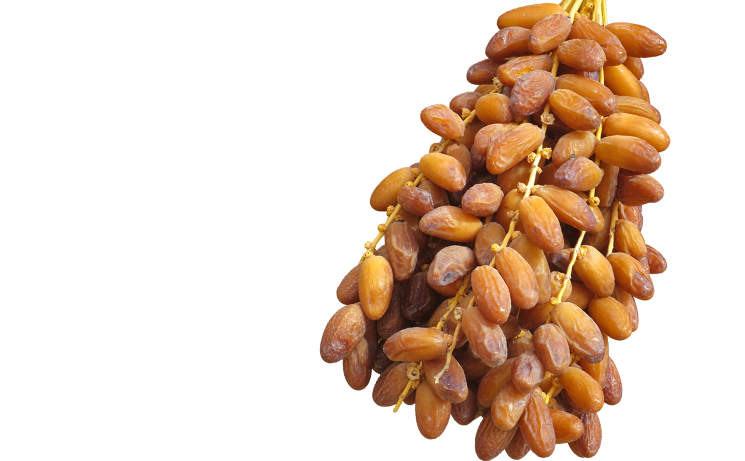
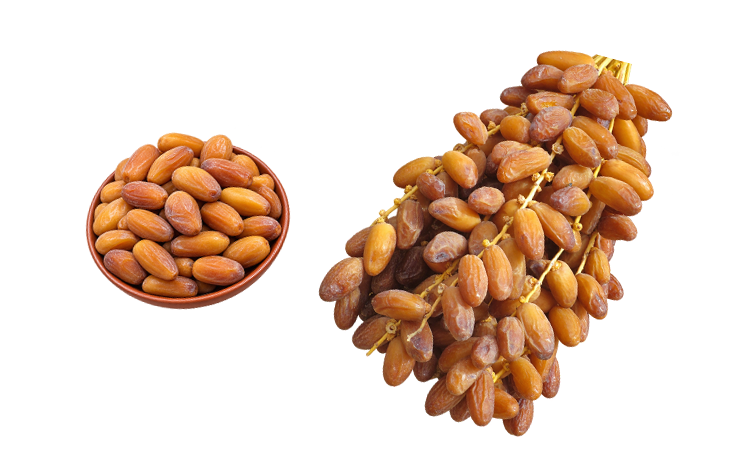
Add hero slider arrows, fix header legibility, add 4th product card, translate About Us copy
- Add prev/next arrow controls to the homepage hero slider
- Make nav bar solid (light bg/dark text) at all scroll positions for readability
- Show full slider image (no crop) on mobile
- Add missing EN translation for footer address
- Add "Dattes Conditionnées" product card on homepage (now 4 cards)
- Replace About page intro with full bilingual company text
- Remove dark overlay from About page hero image
- Minor image/content touch-ups

diff --git a/index.html b/index.html
@@ -38,12 +38,17 @@
   <!-- HERO -->
   <section class="ufuk-connect">
     <div class="ufuk-connect-slider">
-      <div class="ufuk-connect-slide is-active"><img src="assets/images/oasis.jpg" alt="Oasis de Kébili, Tunisie"></div>
-      <div class="ufuk-connect-slide"><img src="assets/images/oasis2.png" alt="Palmeraie de Kébili"></div>
-      <div class="ufuk-connect-slide"><img src="assets/images/oasis3.jpg" alt="Régime de dattes sur le palmier, oasis de Kébili"></div>
-      <div class="ufuk-connect-slide"><img src="assets/images/oasis4.png" alt="Palmeraie de l'oasis de Kébili"></div>
-      <div class="ufuk-connect-slide"><img src="assets/images/oasis5.png" alt="Oasis et palmiers de Kébili"></div>
+      <div class="ufuk-connect-slide is-active"><img src="assets/images/oasis.png" alt="Oasis de Kébili, Tunisie"></div>
+      <div class="ufuk-connect-slide"><img src="assets/images/oasis5.png" alt="Palmeraie de Kébili"></div>
+      <div class="ufuk-connect-slide"><img src="assets/images/oasis3.png" alt="Régime de dattes sur le palmier, oasis de Kébili"></div>
+      <div class="ufuk-connect-slide"><img src="assets/images/oasis2.png" alt="Palmeraie de l'oasis de Kébili"></div>
     </div>
+    <button type="button" class="ufuk-connect-arrow ufuk-connect-arrow-prev" aria-label="Image précédente">
+      <svg viewBox="0 0 24 24" fill="none" stroke="currentColor" stroke-width="2" stroke-linecap="round" stroke-linejoin="round"><polyline points="15 18 9 12 15 6"/></svg>
+    </button>
+    <button type="button" class="ufuk-connect-arrow ufuk-connect-arrow-next" aria-label="Image suivante">
+      <svg viewBox="0 0 24 24" fill="none" stroke="currentColor" stroke-width="2" stroke-linecap="round" stroke-linejoin="round"><polyline points="9 18 15 12 9 6"/></svg>
+    </button>
     <div class="container">
       <div class="ufuk-connect-inner">
         <div class="eyebrow"><span data-fr-only>Sté Ben Laribi &amp; Co — Kébili, Tunisie</span><span data-en-only>Sté Ben Laribi &amp; Co — Kébili, Tunisia</span></div>
@@ -101,13 +106,13 @@
         <div class="split-text">
           <div class="eyebrow"><span data-fr-only>Qui sommes-nous</span><span data-en-only>Who we are</span></div>
           <h2 data-fr-only>Une entreprise ancrée dans l'oasis de Kébili</h2>
-          <h2 data-en-only>A family business rooted in the Kébili oasis</h2>
-          <p data-fr-only>Nous sommes la Sté Ben Laribi &amp; Co (Ben Laribi Dattes), spécialisée dans la production, le conditionnement et l'exportation de dattes, fruits &amp; légumes — plus particulièrement la datte Deglet Nour de Tunisie : naturelle en branches, naturelle standard, conditionnée et pour usage industriel.</p>
+          <h2 data-en-only>A business rooted in the Kébili oasis</h2>
+          <p data-fr-only>Nous sommes la Sté Ben Laribi &amp; Co (Ben Laribi Dattes), spécialisée dans la production, le conditionnement et l'exportation de dattes, fruits &amp; légumes — plus particulièrement les dattes Deglet Nour de Tunisie : naturelles en branches, naturelle standard (vrac), conditionnée et pour usage industriel.</p>
           <p data-en-only>We are Sté Ben Laribi &amp; Co (Ben Laribi Dattes), specialised in the production, processing and export of dates, fruit &amp; vegetables — in particular Tunisian Deglet Nour dates: natural on the branch, natural loose, processed and for industrial use.</p>
           <ul class="check-list">
             <li><svg viewBox="0 0 24 24" fill="none" stroke="currentColor" stroke-width="2"><polyline points="20 6 9 17 4 12"/></svg><span data-fr-only>Production, conditionnement &amp; exportation</span><span data-en-only>Production, processing &amp; export</span></li>
             <li><svg viewBox="0 0 24 24" fill="none" stroke="currentColor" stroke-width="2"><polyline points="20 6 9 17 4 12"/></svg><span data-fr-only>Usine &amp; bureaux au cœur de l'oasis de Kébili</span><span data-en-only>Factory &amp; offices in the heart of the Kébili oasis</span></li>
-            <li><svg viewBox="0 0 24 24" fill="none" stroke="currentColor" stroke-width="2"><polyline points="20 6 9 17 4 12"/></svg><span data-fr-only>Clients fidélisés en Europe, Asie &amp; Afrique</span><span data-en-only>Loyal customers across Europe, Asia &amp; Africa</span></li>
+            <li><svg viewBox="0 0 24 24" fill="none" stroke="currentColor" stroke-width="2"><polyline points="20 6 9 17 4 12"/></svg><span data-fr-only>Clients fidélisés en Europe, Asie &amp; Afrique...</span><span data-en-only>Loyal customers across Europe, Asia &amp; Africa</span></li>
             <li><svg viewBox="0 0 24 24" fill="none" stroke="currentColor" stroke-width="2"><polyline points="20 6 9 17 4 12"/></svg><span data-fr-only>Amélioration continue de la qualité</span><span data-en-only>Continuous quality improvement</span></li>
           </ul>
           <a href="entreprise.html" class="btn btn-dark"><span data-fr-only>En savoir plus</span><span data-en-only>Learn more</span></a>
@@ -121,8 +126,8 @@
     <div class="container">
       <div class="section-head reveal">
         <div class="eyebrow"><span data-fr-only>Nos Produits</span><span data-en-only>Our Products</span></div>
-        <h2 data-fr-only>Trois façons de savourer les dattes Deglet Nour</h2>
-        <h2 data-en-only>Three ways to enjoy Deglet Nour</h2>
+        <h2 data-fr-only>Quatre façons de savourer les dattes Deglet Nour</h2>
+        <h2 data-en-only>Four ways to enjoy Deglet Nour</h2>
         <p data-fr-only>Sélectionnées à la main dans l'oasis de Kébili, nos dattes sont proposées en vrac, conditionnées ou en branches, selon vos marchés et usages.</p>
         <p data-en-only>Hand-selected in the Kébili oasis, our dates are offered loose, processed or on the branch, tailored to your markets and uses.</p>
       </div>
@@ -134,9 +139,9 @@
           </div>
           <div class="product-card-body">
             <h3 data-fr-only>Dattes Naturelle en Branches</h3><h3 data-en-only>Natural Loose</h3>
-            <p data-fr-only>Dattes naturelles triées et calibrées, conditionnées en ravier ou en cup pour la distribution et l'usage industriel.</p>
+            <p data-fr-only>Dattes naturelles sélectionnées, branchées, présentées en barquette, bouquet, boîte et carton.</p>
             <p data-en-only>Sorted, calibrated natural dates, packed in trays or cups for retail and industrial use.</p>
-            <div class="tag-row"><span class="tag">200 / 400 g</span><span class="tag">Cup 284–850 g</span></div>
+            <div class="tag-row"><span class="tag">Barquette et bouquet 250 / 500g </span><span class="tag">Boite 500g et 1kg </span> <span class="tag">Carton 2kg et 5kg </span></div>
             <a href="produits.html#vrac" class="btn btn-outline btn-sm" style="border-color:rgba(42,36,25,.25);color:var(--green-deep)"><span data-fr-only>Voir les formats</span><span data-en-only>See packaging</span></a>
           </div>
         </article>
@@ -146,10 +151,10 @@
             <div class="ph"><svg viewBox="0 0 24 24" fill="none" stroke="currentColor" stroke-width="1.5"><path d="M23 19a2 2 0 0 1-2 2H3a2 2 0 0 1-2-2V8a2 2 0 0 1 2-2h4l2-3h6l2 3h4a2 2 0 0 1 2 2z"/><circle cx="12" cy="13" r="4"/></svg><small data-fr-only>Photo à venir</small><small data-en-only>Photo coming soon</small></div>
           </div>
           <div class="product-card-body">
-            <h3 data-fr-only>Dattes Naturelle en Vrac</h3><h3 data-en-only>Processed</h3>
-            <p data-fr-only>Dattes présentées en ravier, boîte papier ou carton — prêtes pour la distribution export.</p>
+            <h3 data-fr-only>Dattes Naturelle standard (vrac)</h3><h3 data-en-only>Processed</h3>
+            <p data-fr-only>Dattes traitées présentées, boîte papier ou carton — prêtes pour la distribution export.</p>
             <p data-en-only>Dates presented in trays, paper box or carton — ready for export distribution.</p>
-            <div class="tag-row"><span class="tag">Ravier 200–500 g</span><span class="tag">Box 1 kg</span><span class="tag">Carton 5 kg</span></div>
+            <div class="tag-row"><span class="tag">Box 1 kg</span><span class="tag">carton 2 kg</span><span class="tag">Carton 5 kg</span></div>
             <a href="produits.html#conditionnees" class="btn btn-outline btn-sm" style="border-color:rgba(42,36,25,.25);color:var(--green-deep)"><span data-fr-only>Voir les formats</span><span data-en-only>See packaging</span></a>
           </div>
         </article>
@@ -159,11 +164,25 @@
             <div class="ph"><svg viewBox="0 0 24 24" fill="none" stroke="currentColor" stroke-width="1.5"><path d="M23 19a2 2 0 0 1-2 2H3a2 2 0 0 1-2-2V8a2 2 0 0 1 2-2h4l2-3h6l2 3h4a2 2 0 0 1 2 2z"/><circle cx="12" cy="13" r="4"/></svg><small data-fr-only>Photo à venir</small><small data-en-only>Photo coming soon</small></div>
           </div>
           <div class="product-card-body">
-            <h3 data-fr-only>Dattes Naturelle de </h3><h3 data-en-only>Natural on the Branch</h3>
-            <p data-fr-only>Dattes présentées sur la branche, en bouquet ou en coffret, pour une offre premium et festive.</p>
+            <h3 data-fr-only>Dattes Naturelle Dénoyautées</h3><h3 data-en-only>Natural on the Branch</h3>
+            <p data-fr-only>Dattes naturelles de grades B & C présentées en cup et carton. </p>
             <p data-en-only>Dates presented on the branch, as a bouquet or gift box, for a premium, festive offering.</p>
-            <div class="tag-row"><span class="tag">Bouquet 500 g</span><span class="tag">Coffret 1–5 kg</span></div>
+            <div class="tag-row"><span class="tag">Cup 280gr, 680gr, 750 & 795gr </span><span class="tag">Carton 5 & 9kg </span></div>
             <a href="produits.html#branchees" class="btn btn-outline btn-sm" style="border-color:rgba(42,36,25,.25);color:var(--green-deep)"><span data-fr-only>Voir les formats</span><span data-en-only>See packaging</span></a>
+          </div>
+        </article>
+        <article class="product-card reveal">
+          <div class="media">
+            <img src="assets/images/Dattes-Conditionnees.png" alt="Datte Deglet Nour conditionnée">
+            <div class="ph"><svg viewBox="0 0 24 24" fill="none" stroke="currentColor" stroke-width="1.5"><path d="M23 19a2 2 0 0 1-2 2H3a2 2 0 0 1-2-2V8a2 2 0 0 1 2-2h4l2-3h6l2 3h4a2 2 0 0 1 2 2z"/><circle cx="12" cy="13" r="4"/></svg><small data-fr-only>Photo à venir</small><small data-en-only>Photo coming soon</small></div>
+          </div>
+          <div class="product-card-body">
+            <h3 data-fr-only>Dattes Conditionnées et Dattes communes
+            </h3><h3 data-en-only>Processed Dates</h3>
+            <p data-fr-only>Dattes présentées en ravier, boîte papier ou carton.</p>
+            <p data-en-only>Dates carefully presented in trays, paper box or carton, ready for export distribution.</p>
+            <div class="tag-row"><span class="tag">Ravier 200gr, 250gr, 300gr, 400gr & 500gr </span><span class="tag">Boîte papier 1kg </span><span class="tag">Carton 5kg </span></div>
+            <a href="produits.html#conditionnees" class="btn btn-outline btn-sm" style="border-color:rgba(42,36,25,.25);color:var(--green-deep)"><span data-fr-only>Voir les formats</span><span data-en-only>See packaging</span></a>
           </div>
         </article>
       </div>
@@ -195,7 +214,7 @@
         <div class="value-card reveal">
           <svg viewBox="0 0 24 24" fill="none" stroke="currentColor" stroke-width="1.6"><path d="M12 22s8-4 8-10V5l-8-3-8 3v7c0 6 8 10 8 10z"/></svg>
           <h4 data-fr-only>Sélection Rigoureuse</h4><h4 data-en-only>Careful Selection</h4>
-          <p data-fr-only>Dattes triées et calibrées à la main dans notre oasis.</p>
+          <p data-fr-only>Dattes sélectionnées et triées dans notre usine.</p>
           <p data-en-only>Hand-sorted and calibrated dates from our oasis.</p>
         </div>
         <div class="value-card reveal">
@@ -213,7 +232,7 @@
         <div class="value-card reveal">
           <svg viewBox="0 0 24 24" fill="none" stroke="currentColor" stroke-width="1.6"><circle cx="12" cy="12" r="10"/><line x1="2" y1="12" x2="22" y2="12"/><path d="M12 2a15.3 15.3 0 0 1 4 10 15.3 15.3 0 0 1-4 10 15.3 15.3 0 0 1-4-10 15.3 15.3 0 0 1 4-10z"/></svg>
           <h4 data-fr-only>Export Maîtrisé</h4><h4 data-en-only>Reliable Export</h4>
-          <p data-fr-only>Des clients fidèles en Europe, en Asie et en Afrique.</p>
+          <p data-fr-only>Des clients fidèles en Europe, en Asie et en Afrique...</p>
           <p data-en-only>Loyal customers across Europe, Asia and Africa.</p>
         </div>
     
@@ -300,7 +319,8 @@
         <h5 data-fr-only>Contact</h5><h5 data-en-only>Contact</h5>
         <div class="contact-line">
           <svg viewBox="0 0 24 24" fill="none" stroke="currentColor" stroke-width="1.7"><path d="M21 10c0 7-9 13-9 13s-9-6-9-13a9 9 0 0 1 18 0z"/><circle cx="12" cy="10" r="3"/></svg>
-          <p>Elklibya, Jersine Kébili Sud<br>4263 Kébili, Tunisie</p>
+          <p data-fr-only>Elklibya, Jersine Kébili Sud<br>4263 Kébili, Tunisie</p>
+          <p data-en-only>Elklibya, Jersine Kébili Sud<br>4263 Kébili, Tunisia</p>
         </div>
         <div class="contact-line">
           <svg viewBox="0 0 24 24" fill="none" stroke="currentColor" stroke-width="1.7"><path d="M22 16.92v3a2 2 0 0 1-2.18 2 19.79 19.79 0 0 1-8.63-3.07 19.5 19.5 0 0 1-6-6 19.79 19.79 0 0 1-3.07-8.67A2 2 0 0 1 4.11 2h3a2 2 0 0 1 2 1.72c.13.96.36 1.9.7 2.81a2 2 0 0 1-.45 2.11L8.09 9.91a16 16 0 0 0 6 6l1.27-1.27a2 2 0 0 1 2.11-.45c.91.34 1.85.57 2.81.7A2 2 0 0 1 22 16.92z"/></svg>

diff --git a/entreprise.html b/entreprise.html
@@ -36,8 +36,8 @@
 
 <main>
   <section class="ufuk-connect page-ufuk-connect">
-    <div class="ufuk-connect-photo">
-      <img src="assets/images/product-vrac.png" alt="Dattes Deglet Nour de Tunisie Ben Laribi Dattes">
+    <div class="ufuk-connect-photo no-overlay">
+      <img src="assets/images/about-1.png" alt="Dattes Deglet Nour de Tunisie Ben Laribi Dattes">
     </div>
     <div class="container">
       <div class="ufuk-connect-inner">
@@ -67,12 +67,16 @@
           <div class="eyebrow"><span data-fr-only>Qui sommes-nous</span><span data-en-only>Who we are</span></div>
           <h2 data-fr-only>Les Meilleures Dattes, depuis l'oasis de Kébili</h2>
           <h2 data-en-only>The Finest Dates, from the Kébili Oasis</h2>
-          <p data-fr-only>Nous sommes la Sté Ben Laribi &amp; Co (Ben Laribi Dattes), Kébili – Tunisie, spécialisée dans la production, le conditionnement &amp; l'exportation de dattes, fruits &amp; légumes, plus particulièrement les dattes Deglet Nour de Tunisie : naturelles en branches, naturelles standard, conditionnées &amp; pour usage industriel.</p>
-          <p data-en-only>We are Sté Ben Laribi &amp; Co (Ben Laribi Dattes), based in Kébili, Tunisia, specialised in the production, processing &amp; export of dates, fruit &amp; vegetables, in particular Tunisian Deglet Nour dates: natural on the branch, natural standard, processed &amp; for industrial use.</p>
-          <p data-fr-only>Nos bureaux et notre usine sont situés au sud tunisien, au cœur de l'oasis de Kébili. Nous exportons nos dattes sélectionnées vers plusieurs clients fidélisés à travers l'Europe, l'Asie et l'Afrique.</p>
-          <p data-en-only>Our offices and factory are located in southern Tunisia, right in the heart of the Kébili oasis. We export our selected dates to many loyal customers across Europe, Asia and Africa.</p>
-          <p data-fr-only><strong>Notre politique est l'amélioration continue de la qualité de nos produits, et notre objectif est la satisfaction de nos clients.</strong></p>
-          <p data-en-only><strong>Our policy is the continuous improvement of our product quality, and our goal is customer satisfaction.</strong></p>
+          <p data-fr-only>La Sté Ben Laribi &amp; Co (Ben Laribi Dattes) est une société traditionnellement cultivatrice de palmiers dattiers et collectrice de dattes depuis plusieurs générations, aujourd'hui productrice et exportatrice de dattes, fruits &amp; légumes depuis 2005 — axée principalement sur la datte Deglet Nour de Tunisie et, occasionnellement, sur des dattes communes telles que les dattes Aligh, Khouat Aligh &amp; Kenta.</p>
+          <p data-en-only>Sté Ben Laribi &amp; Co (Ben Laribi Dattes) has a long tradition as a grower of palm trees and a collector of dates spanning several generations, and is today a producer and exporter of dates, fruit &amp; vegetables since 2005 — focused mainly on Tunisian Deglet Nour dates and, occasionally, common dates such as Aligh, Khouat Aligh &amp; Kenta.</p>
+          <p data-fr-only>Nos palmeraies familiales nous permettent de conserver la tradition de culture ancestrale du palmier dattier : le traitement naturel recommandé, la collecte de dattes sélectionnées, le triage original contrôlé, et l'observation rigoureuse des normes HACCP pour la production de notre gamme d'articles de dattes de qualité, destinés à 100% à l'export.</p>
+          <p data-en-only>Our family palm groves let us preserve the ancestral tradition of palm cultivation: recommended natural processing, selection of quality dates, controlled original sorting, and strict compliance with HACCP standards in producing our range of quality date products, 100% destined for export.</p>
+          <p data-fr-only>Notre nouvelle usine, située au cœur de l'oasis de Kébili et dotée d'équipements modernes et de personnel qualifié, nous permet de pratiquer les méthodes avancées de conditionnement et d'assurer le niveau de qualité de nos produits sous la vigilance de nos contrôleurs, répondant aux normes internationales de production.</p>
+          <p data-en-only>Our new factory, located in the heart of the Kébili oasis and equipped with modern equipment and qualified staff, allows us to apply advanced processing methods and guarantee the quality of our products under the watch of our inspectors, in line with international production standards.</p>
+          <p data-fr-only>Notre direction générale dynamique et notre service commercial expérimenté ont pour objectif de stimuler nos ventes, de prospecter de nouveaux marchés et de fidéliser nos clients à travers le monde — et surtout de gagner leur satisfaction.</p>
+          <p data-en-only>Our dynamic general management and experienced sales team aim to grow our sales, explore new markets and build customer loyalty around the world — and above all, earn their satisfaction.</p>
+          <p data-fr-only style="text-align:right;font-style:italic;color:var(--ink-soft)">— Le Directeur Général, Sté Ben Laribi &amp; Co (Ben Laribi Dattes)</p>
+          <p data-en-only style="text-align:right;font-style:italic;color:var(--ink-soft)">— The General Manager, Sté Ben Laribi &amp; Co (Ben Laribi Dattes)</p>
         </div>
       </div>
     </div>
@@ -89,13 +93,13 @@
         <div class="pillar reveal">
           <svg viewBox="0 0 24 24" fill="none" stroke="currentColor" stroke-width="1.6"><path d="M12 22s8-4 8-10V5l-8-3-8 3v7c0 6 8 10 8 10z"/></svg>
           <h4 data-fr-only>Culture &amp; Récolte</h4><h4 data-en-only>Growing &amp; Harvest</h4>
-          <p data-fr-only>Des palmeraies de l'oasis de Kébili, berceau historique de la Deglet Nour de Tunisie.</p>
+          <p data-fr-only>Des palmeraies de l'oasis de Kébili, berceau de Dattes Deglet Nour de Tunisie.</p>
           <p data-en-only>From palm groves in the Kébili oasis, the historic home of Tunisian Deglet Nour.</p>
         </div>
         <div class="pillar reveal">
           <svg viewBox="0 0 24 24" fill="none" stroke="currentColor" stroke-width="1.6"><path d="M21 8a2 2 0 0 0-1-1.73l-7-4a2 2 0 0 0-2 0l-7 4A2 2 0 0 0 3 8v8a2 2 0 0 0 1 1.73l7 4a2 2 0 0 0 2 0l7-4a2 2 0 0 0 1-1.73z"/><polyline points="3.29 7 12 12 20.71 7"/><line x1="12" y1="22" x2="12" y2="12"/></svg>
           <h4 data-fr-only>Tri &amp; Conditionnement</h4><h4 data-en-only>Sorting &amp; Packing</h4>
-          <p data-fr-only>Calibrage, tri et conditionnement adaptés à chaque marché : vrac, conditionné ou en branches.</p>
+          <p data-fr-only>Selection, tri et conditionnement adaptés à chaque marché : branches, vrac ou conditionné.</p>
           <p data-en-only>Grading, sorting and packing tailored to every market: loose, processed or on the branch.</p>
         </div>
         <div class="pillar reveal">
@@ -121,7 +125,7 @@
           <div class="eyebrow" style="color:var(--gold-light)"><span data-fr-only>Notre Terroir</span><span data-en-only>Our Terroir</span></div>
           <h2 data-fr-only>Kébili, l'une des portes du Sahara tunisien</h2>
           <h2 data-en-only>Kébili, a gateway to the Tunisian Sahara</h2>
-          <p data-fr-only>C'est dans cet oasis, réputée pour ses palmeraies, que se trouvent notre usine et nos bureaux — au plus près des palmiers et de la datte Deglet Nour. Cette proximité nous permet de maîtriser chaque étape, de la récolte au conditionnement.</p>
+          <p data-fr-only>C'est dans cet oasis, réputée pour ses palmeraies, que se trouvent notre usine et nos bureaux — au plus près des palmiers et des dattes Deglet Nour. Cette proximité nous permet de maîtriser chaque étape, de la récolte au conditionnement.</p>
           <p data-en-only>Our factory and offices are located right in this oasis, renowned for its palm groves — as close as possible to the palm trees and the Deglet Nour date. This proximity lets us oversee every step, from harvest to packing.</p>
           <div class="contact-line" style="border:0;padding-top:6px">
             <svg viewBox="0 0 24 24" fill="none" stroke="currentColor" stroke-width="1.7" style="color:var(--gold-light)"><path d="M21 10c0 7-9 13-9 13s-9-6-9-13a9 9 0 0 1 18 0z"/><circle cx="12" cy="10" r="3"/></svg>

diff --git a/assets/css/style.css b/assets/css/style.css
@@ -90,13 +90,13 @@ html[data-lang="en"] [data-fr-only]{display:none !important;}
   position:fixed;top:0;left:0;right:0;z-index:1000;
   height:var(--header-h);
   display:flex;align-items:center;
+  background:rgba(251,246,234,.96);
+  backdrop-filter:blur(8px);
+  box-shadow:0 2px 18px rgba(20,17,10,.08);
   transition:background .35s ease, box-shadow .35s ease, height .35s ease;
 }
 .site-header .container{display:flex;align-items:center;justify-content:space-between;width:100%;position:relative;}
 .site-header.solid{
-  background:rgba(251,246,234,.96);
-  backdrop-filter:blur(8px);
-  box-shadow:0 2px 18px rgba(20,17,10,.08);
   height:96px;
 }
 .brand{display:flex;align-items:center;gap:12px;flex:none;min-width:0;overflow:hidden;}
@@ -108,9 +108,7 @@ html[data-lang="en"] [data-fr-only]{display:none !important;}
 .brand-mark img{height:100%;width:100%;object-fit:contain;display:block;}
 .brand-word{display:flex;flex-direction:column;line-height:1.05;min-width:0;}
 .brand-word b{font-family:var(--font-head);font-size:1.18rem;letter-spacing:.03em;color:var(--green-deep);display:block;overflow:hidden;text-overflow:ellipsis;white-space:nowrap;}
-.site-header:not(.solid) .brand-word b{color:var(--white);}
 .brand-word span{font-size:.62rem;letter-spacing:.14em;text-transform:uppercase;color:var(--gold-dark);font-weight:600;margin-top:2px;overflow:hidden;text-overflow:ellipsis;white-space:nowrap;}
-.site-header:not(.solid) .brand-word span{color:var(--gold-light);}
 
 .main-nav{
   display:flex;align-items:center;gap:38px;
@@ -118,33 +116,28 @@ html[data-lang="en"] [data-fr-only]{display:none !important;}
 }
 .main-nav a{
   font-size:.92rem;font-weight:500;letter-spacing:.02em;
-  color:var(--white);position:relative;padding:6px 0;
+  color:var(--ink);position:relative;padding:6px 0;
 }
-.site-header.solid .main-nav a{}
 .main-nav a::after{
   content:"";position:absolute;left:0;bottom:0;height:2px;width:0;
   background:var(--gold);transition:width .25s ease;
 }
 .main-nav a:hover::after,.main-nav a.active::after{width:100%;}
 .main-nav a.active{color:var(--gold-dark);}
-.site-header:not(.solid) .main-nav a.active{color:var(--gold-light);}
 
 .header-actions{display:flex;align-items:center;gap:18px;flex:none;}
 .lang-toggle{
-  display:flex;border:1.5px solid rgba(255,255,255,.5);border-radius:100px;overflow:hidden;
+  display:flex;border:1.5px solid rgba(42,36,25,.25);border-radius:100px;overflow:hidden;
 }
-.site-header.solid .lang-toggle{border-color:rgba(42,36,25,.25);}
 .lang-toggle button{
   border:0;background:transparent;padding:6px 13px;font-size:.75rem;font-weight:700;
-  letter-spacing:.05em;color:var(--white);cursor:pointer;
+  letter-spacing:.05em;color:var(--ink);cursor:pointer;
 }
-.site-header.solid .lang-toggle button{color:var(--ink);}
 .lang-toggle button.active{background:var(--gold);color:var(--green-deep);}
 .menu-toggle{
   display:none;flex-direction:column;gap:5px;background:none;border:0;cursor:pointer;padding:6px;
 }
-.menu-toggle span{width:24px;height:2px;background:var(--white);transition:.25s;}
-.site-header.solid .menu-toggle span{background:var(--ink);}
+.menu-toggle span{width:24px;height:2px;background:var(--ink);transition:.25s;}
 
 @media (max-width:920px){
   :root{--header-h:104px;}
@@ -200,6 +193,7 @@ html[data-lang="en"] [data-fr-only]{display:none !important;}
   content:"";position:absolute;inset:0;
   background:linear-gradient(160deg, rgba(18,45,24,.92) 0%, rgba(18,45,24,.72) 45%, rgba(10,10,8,.85) 100%);
 }
+.ufuk-connect-photo.no-overlay::after{display:none;}
 
 /* animated ufuk-connect slider (homepage) */
 .ufuk-connect-slider{position:absolute;inset:0;overflow:hidden;}
@@ -216,6 +210,27 @@ html[data-lang="en"] [data-fr-only]{display:none !important;}
 .ufuk-connect-dots button{width:8px;height:8px;border-radius:50%;background:rgba(251,246,234,.4);border:1px solid rgba(251,246,234,.5);padding:0;cursor:pointer;transition:.25s;}
 .ufuk-connect-dots button.is-active{background:var(--gold-light);border-color:var(--gold-light);width:24px;border-radius:5px;}
 @media (prefers-reduced-motion: reduce){.ufuk-connect-slide.is-active.has-img img{animation:none;}}
+@media (max-width:640px){
+  .ufuk-connect-slide img{object-fit:contain;transform:none;}
+  .ufuk-connect-slide.is-active.has-img img{animation:none;}
+}
+
+.ufuk-connect-arrow{
+  position:absolute;top:50%;transform:translateY(-50%);z-index:3;
+  width:44px;height:44px;display:flex;align-items:center;justify-content:center;
+  border-radius:50%;border:1px solid rgba(251,246,234,.4);background:rgba(18,45,24,.35);
+  color:var(--gold-light,#fff);cursor:pointer;transition:.25s;backdrop-filter:blur(2px);
+}
+.ufuk-connect-arrow svg{width:20px;height:20px;}
+.ufuk-connect-arrow:hover{background:rgba(18,45,24,.6);border-color:var(--gold-light);}
+.ufuk-connect-arrow-prev{left:20px;}
+.ufuk-connect-arrow-next{right:20px;}
+@media (max-width:640px){
+  .ufuk-connect-arrow{width:36px;height:36px;}
+  .ufuk-connect-arrow svg{width:16px;height:16px;}
+  .ufuk-connect-arrow-prev{left:10px;}
+  .ufuk-connect-arrow-next{right:10px;}
+}
 
 .ufuk-connect .container{position:relative;z-index:2;padding-top:40px;padding-bottom:70px;}
 .ufuk-connect-inner{max-width:720px;}
@@ -303,7 +318,7 @@ html[data-lang="en"] [data-fr-only]{display:none !important;}
 @media (max-width:560px){.value-grid{grid-template-columns:1fr;}.band{padding:96px 0;}}
 
 /* ---------- products / cards ---------- */
-.products-grid{display:grid;grid-template-columns:repeat(3,1fr);gap:30px;}
+.products-grid{display:grid;grid-template-columns:repeat(4,1fr);gap:24px;}
 .product-card{
   background:var(--white);border-radius:var(--radius);overflow:hidden;
   box-shadow:var(--shadow-sm);transition:transform .3s ease,box-shadow .3s ease;
@@ -314,6 +329,7 @@ html[data-lang="en"] [data-fr-only]{display:none !important;}
 .products-grid .reveal:nth-child(1){transition-delay:0s;}
 .products-grid .reveal:nth-child(2){transition-delay:.12s;}
 .products-grid .reveal:nth-child(3){transition-delay:.24s;}
+.products-grid .reveal:nth-child(4){transition-delay:.36s;}
 .product-card-body{padding:26px 26px 28px;flex:1;display:flex;flex-direction:column;}
 .product-card-body h3{font-size:1.22rem;margin-bottom:8px;}
 .product-card-body p{font-size:.92rem;flex:1;}

diff --git a/assets/js/main.js b/assets/js/main.js
@@ -76,6 +76,7 @@
       }
     }
     function next() { show((idx + 1) % slides.length); }
+    function prev() { show((idx - 1 + slides.length) % slides.length); }
     function start() { if (reduced || slides.length < 2) return; stop(); timer = setInterval(next, 5500); }
     function stop() { clearInterval(timer); }
 
@@ -88,9 +89,15 @@
         dotsWrap.appendChild(b);
       });
     }
+    var wrap = slider.closest(".ufuk-connect");
+    if (wrap && slides.length > 1) {
+      var prevBtn = wrap.querySelector(".ufuk-connect-arrow-prev");
+      var nextBtn = wrap.querySelector(".ufuk-connect-arrow-next");
+      if (prevBtn) prevBtn.addEventListener("click", function () { prev(); start(); });
+      if (nextBtn) nextBtn.addEventListener("click", function () { next(); start(); });
+    }
     show(0);
     start();
-    var wrap = slider.closest(".ufuk-connect");
     if (wrap) {
       wrap.addEventListener("mouseenter", stop);
       wrap.addEventListener("mouseleave", start);

diff --git a/contact.html b/contact.html
@@ -45,7 +45,7 @@
         </div>
         <div class="eyebrow"><span data-fr-only>Contact</span><span data-en-only>Contact</span></div>
         <h1><span data-fr-only>Parlons de <em>votre projet</em></span><span data-en-only>Let's talk about <em>your project</em></span></h1>
-        <p class="lead" data-fr-only>Une question, une demande de devis ou d'échantillons ? Notre équipe vous répond rapidement.</p>
+        <p class="lead" data-fr-only>Une question, une demande de devis ou d'échantillons ? Notre service commercial vous répond rapidement.</p>
         <p class="lead" data-en-only>A question, a quote or sample request? Our team will get back to you quickly.</p>
       </div>
     </div>
